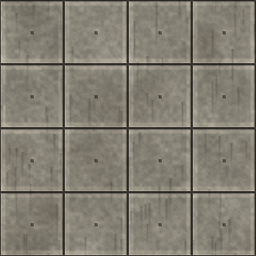
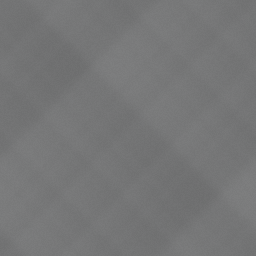
fix: بافت دیوار بدون شبکه و بدون نقطه — «پنجره»های قلابی حذف شدند
ریشه: بافت material_wall.png خودش یک شبکهٔ ۴×۴ با درزهای تیره و یک نقطهٔ
تیره در هر کاشی داشت. با تکرار ۷ متری، این شبکه در ارتفاعهای تصادفی روی
دیوار میافتاد و با پنجرههای واقعی سهبعدی قاطی میشد — چیزی که بهعنوان
«پنجرههای خراب» دیده میشد.

بافت تازه: بتن تیلپذیر بدون درز، بدون شبکه، بدون نقطه.
تأیید: اختلاف لبه ۰.۱، صفر پرش ناگهانی.

diff --git a/app/src/test/java/ir/shahed/pahpad/render/WorldRenderTest.kt b/app/src/test/java/ir/shahed/pahpad/render/WorldRenderTest.kt
@@ -84,6 +84,26 @@ class WorldRenderTest {
             println("نوشتم ${f.absolutePath}")
         }
 
+        // ---- نمای نزدیک ساختمان: پنجرهها باید شبکهٔ منظم واقعی باشند
+        run {
+            val m3 = Mission(level, save, MissionMode.STORY, 42L)
+            // یک ساختمان شهری را از نزدیک میبینیم
+            m3.x = 0f; m3.y = 55f; m3.z = 0f
+            m3.yaw = 0f; m3.pitch = -0.35f; m3.roll = 0f
+            val cam = renderer.scene.cam
+            cam.fov = 62f
+            cam.x = 0f; cam.y = 48f; cam.z = -95f
+            cam.yaw = 0f; cam.pitch = -0.10f; cam.roll = 0f
+            cam.viewport(w.toFloat(), h.toFloat())
+            val bmp = Bitmap.createBitmap(w, h, Bitmap.Config.ARGB_8888)
+            val c = Canvas(bmp)
+            renderer.update(1f / 60f, m3)
+            renderer.draw(c, m3, w.toFloat(), h.toFloat())
+            val f = File(outDir, "building_closeup.png")
+            f.outputStream().use { bmp.compress(Bitmap.CompressFormat.PNG, 100, it) }
+            println("نوشتم ${f.absolutePath}")
+        }
+
         // ---- نمای نزدیک پهپاد: مدل نباید داغان باشد
         run {
             val m2 = Mission(level, save, MissionMode.STORY, 42L)
